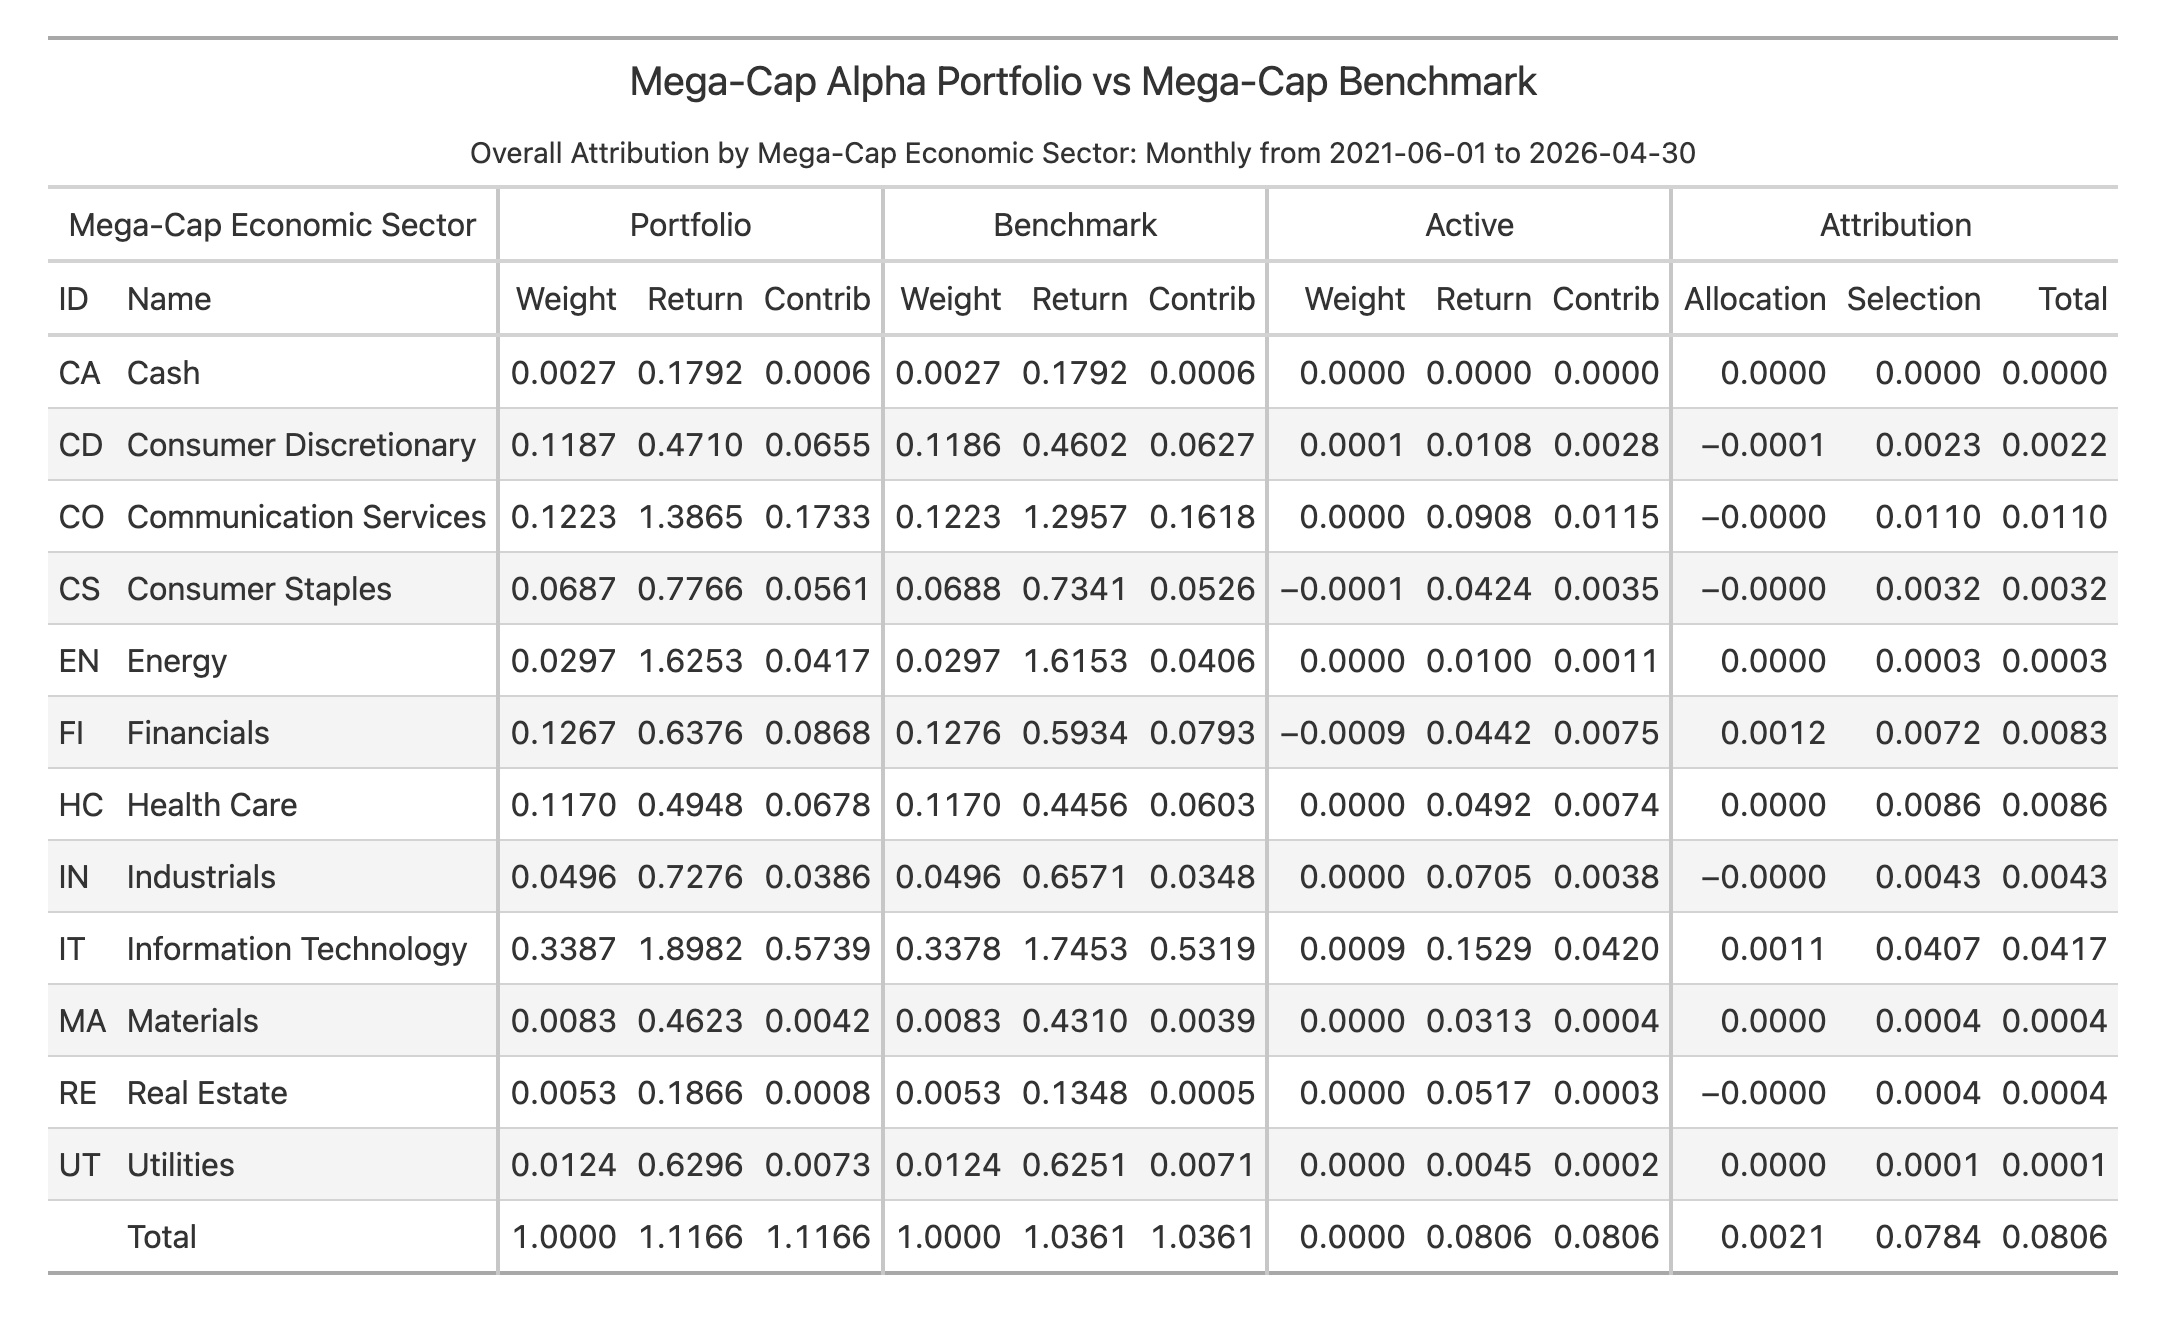
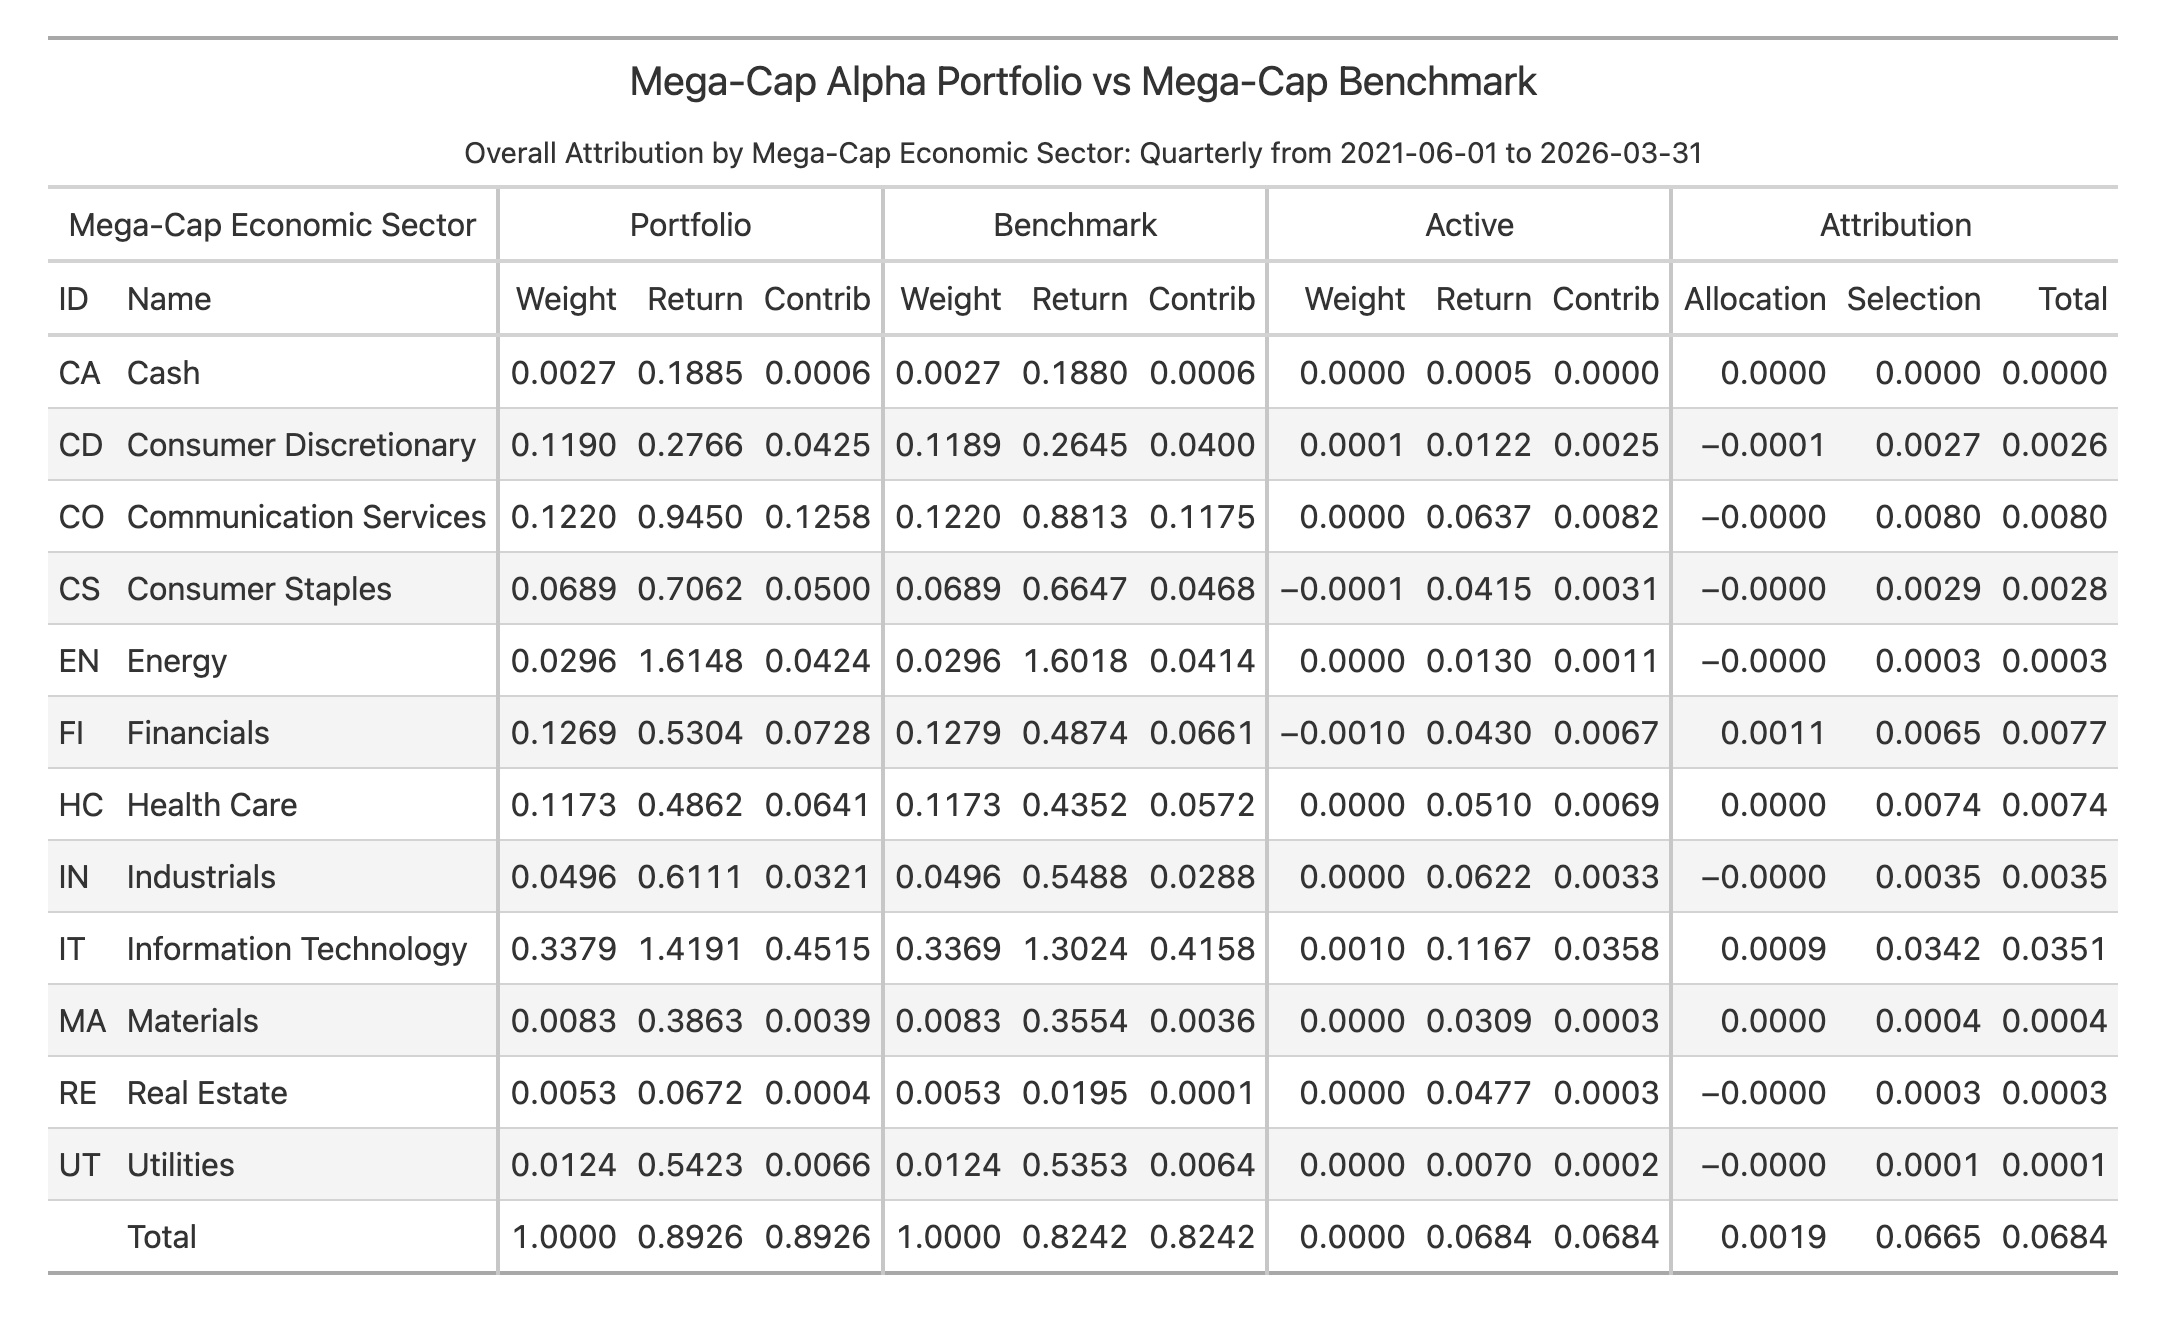
New analytics demo data.

diff --git a/scripts/render_readme_images.py b/scripts/render_readme_images.py
@@ -96,7 +96,7 @@ def _analytics_outputs() -> tuple[Analytics, Attribution]:
         demo_data.performance_data_source("Mega-Cap Benchmark.csv"),
         portfolio_classification_name="Mega-Cap Security",
         benchmark_classification_name="Mega-Cap Security",
-        frequency=Frequency.MONTHLY,
+        frequency=Frequency.QUARTERLY,
     )
     classification_name = "Mega-Cap Economic Sector"
     sector = analytics.get_attribution(

diff --git a/docs/analytics_demo_refresh.md b/docs/analytics_demo_refresh.md
@@ -1,0 +1,189 @@
+# Analytics Demo Refresh Guide
+
+This guide documents the refresh workflow for the core analytics demo data,
+README story, and README images. Use it when replacing the packaged Mega-Cap
+demo inputs with a newer or better historical dataset.
+
+## Current Demo Shape
+
+The user-facing analytics demo uses packaged CSV files under `ppar/demos/data/`:
+
+- `performance/Mega-Cap Alpha Portfolio.csv`
+- `performance/Mega-Cap Benchmark.csv`
+- `classifications/Mega-Cap Security.csv`
+- `classifications/Mega-Cap Economic Sector.csv`
+- `mappings/Mega-Cap Security--to--Mega-Cap Economic Sector.csv`
+
+The current files are generated from historical iShares S&P 100 ETF holdings as
+a public proxy for a U.S. mega-cap benchmark. The user-facing name is
+`Mega-Cap`; `OEF` is only source provenance. Cash and derivative rows are
+aggregated into `CASHBAL`, mapped to the `Cash` sector, and use BIL adjusted
+monthly returns as a cash-return proxy.
+
+The root README images and story are generated from these packaged files, not
+from the temporary data-generation workspace. The packaged data remains monthly,
+but the README images are rendered quarterly to keep date-heavy charts readable.
+
+## Refresh Workflow
+
+### 1. Generate Candidate Data
+
+Use the local generation workspace for exploratory downloads and calibration:
+
+```bash
+./.venv/bin/python _demo_output/analytics_data_generation/generate_oef_analytics_demo_data.py
+```
+
+Useful options:
+
+```bash
+./.venv/bin/python _demo_output/analytics_data_generation/generate_oef_analytics_demo_data.py \
+  --years 5 \
+  --alpha-tilt 0.8
+```
+
+Notes:
+
+- The generator is intentionally outside packaged code while the data source is
+  still a refresh/provenance tool rather than a public API.
+- It may require network access, `requests`, and local `yfinance`.
+- It writes generated files under
+  `_demo_output/analytics_data_generation/generated_oef_files/`.
+- Keep monthly continuity non-negotiable. If a market holiday falls on month
+  end, use a nearby available business-day holdings snapshot and document it.
+- Do not promote equal-weight benchmark data. The benchmark should remain
+  holdings-weighted/cap-weight-like.
+
+### 2. Review Candidate Data
+
+Before promotion, inspect at least:
+
+- Date coverage and monthly continuity.
+- Holdings count and any dropped/renamed securities.
+- Cash weight average and maximum.
+- Sector weights for believability.
+- Benchmark cumulative return versus a broad published proxy for the same
+  period.
+- Alpha portfolio cumulative return, active return, and risk statistics.
+- Whether the story is believable without looking engineered.
+
+Run or update the candidate validation helper if it still exists:
+
+```bash
+./.venv/bin/python _demo_output/analytics_data_generation/validate_generated_analytics_data.py
+```
+
+### 3. Promote Packaged CSVs
+
+Once accepted, copy the generated files into `ppar/demos/data/` using the
+stable user-facing `Mega-Cap` names:
+
+```text
+generated_oef_files/performance/Generated OEF Alpha Portfolio.csv
+  -> ppar/demos/data/performance/Mega-Cap Alpha Portfolio.csv
+
+generated_oef_files/performance/Generated OEF Benchmark.csv
+  -> ppar/demos/data/performance/Mega-Cap Benchmark.csv
+
+generated_oef_files/classifications/Generated OEF Security.csv
+  -> ppar/demos/data/classifications/Mega-Cap Security.csv
+
+generated_oef_files/classifications/Generated OEF Economic Sector.csv
+  -> ppar/demos/data/classifications/Mega-Cap Economic Sector.csv
+
+generated_oef_files/mappings/Generated OEF Security--to--Generated OEF Economic Sector.csv
+  -> ppar/demos/data/mappings/Mega-Cap Security--to--Mega-Cap Economic Sector.csv
+```
+
+After promotion, update:
+
+- `ppar/demos/data/README.md`
+- `tests/test_mega_cap_demo_data_contract.py`
+- any expected coverage dates, cash notes, and story metrics.
+
+### 4. Verify Packaged Data
+
+Run the demo-data contract and package metadata tests:
+
+```bash
+./.venv/bin/python -m pytest \
+  tests/test_mega_cap_demo_data_contract.py \
+  tests/test_package_metadata.py
+```
+
+Then run the analytics demo:
+
+```bash
+printf 'm\n' | ./.venv/bin/python -m ppar.demos.analytics_demo
+```
+
+Review output under `_demo_output/analytics/`.
+
+### 5. Update README Story
+
+Use the packaged data and the same frequency used by
+`scripts/render_readme_images.py`, not the generator summary alone, to compute
+README numbers. The README currently renders quarterly images from monthly
+packaged inputs. The useful values are:
+
+- Portfolio cumulative return.
+- Benchmark cumulative return.
+- Active return.
+- Total allocation effect.
+- Total selection effect.
+- Largest sector total effect.
+- Annualized Sharpe ratio for portfolio and benchmark.
+- Annualized Sortino ratio for portfolio and benchmark.
+
+The README story should be concise and believable. Prefer phrasing like
+"public proxy" or "realistic, inspectable example" instead of implying exact
+index replication.
+
+### 6. Regenerate README Images
+
+The README images are generated from packaged demo files:
+
+```bash
+./.venv/bin/python scripts/render_readme_images.py
+```
+
+The script regenerates:
+
+- chart PNGs in `images/`
+- table screenshots as JPGs in `images/`
+
+Headless Chrome may require normal local-machine permissions. If the sandboxed
+runner cannot launch Chrome, rerun the same command with the tool approval used
+for GUI/headless-browser execution.
+
+Visually spot-check at least:
+
+- `images/OverallAttributionByEconomicSector.png`
+- `images/RiskStatistics.jpg`
+- one large table screenshot such as
+  `images/OverallAttributionBySecurity.jpg`
+
+### 7. Final Verification
+
+Run the full test suite:
+
+```bash
+./.venv/bin/python -m pytest
+```
+
+Before committing, check:
+
+- README story matches regenerated image titles and values.
+- `ppar-analytics-demo` uses the same packaged files.
+- `scripts/render_readme_images.py` uses the same packaged files.
+- `ppar/demos/data/README.md` documents source provenance and any date
+  substitutions.
+- No generated `_demo_output/` files are accidentally staged.
+
+## When To Promote The Generator
+
+The generator can remain in `_demo_output/analytics_data_generation/` while it
+is a local refresh aid. Consider moving it into `scripts/` only if we want a
+maintained, documented, reproducible data-refresh command. If promoted, avoid
+adding new package dependencies solely for data refresh unless that is an
+explicit product decision.

diff --git a/docs/repository_guide.md b/docs/repository_guide.md
@@ -9,6 +9,7 @@ many disconnected entry points.
 | Need | Start With | Why |
 | --- | --- | --- |
 | Package overview | [`README.md`](../README.md) | Top-level project description, installation, public demo commands, and common smoke tests. |
+| Analytics demo refresh | [`docs/analytics_demo_refresh.md`](analytics_demo_refresh.md) | How to regenerate Mega-Cap demo data, update the README story, and refresh README images. |
 | Performance comparison concepts | [`docs/performance_comparison_design.md`](performance_comparison_design.md) | Deep feature notes, YAML vocabulary, report bundle structure, and implementation status. |
 | Axys export shape | [`docs/axys_common_core_export.md`](axys_common_core_export.md) | Starter Axys export template and field-reference notes. |
 | Packaged Axys demos | [`ppar/demos/data/axys/README.md`](../ppar/demos/data/axys/README.md) | Four XLSX workbook demos, four validation fixtures, exact commands, and expected outputs. |
@@ -37,6 +38,7 @@ many disconnected entry points.
 | File | Audience | Contents |
 | --- | --- | --- |
 | [`README.md`](../README.md) | New users and maintainers | Package overview, installation, bundled demo commands, performance-comparison smoke tests, and project checks. |
+| [`docs/analytics_demo_refresh.md`](analytics_demo_refresh.md) | Maintainers | Analytics demo data-generation, story, and README image refresh workflow. |
 | [`ppar/demos/data/axys/README.md`](../ppar/demos/data/axys/README.md) | Demo reviewers | Packaged Axys scenario matrix, XLSX workbook commands, data/YAML descriptions, and expected workbook outputs. |
 | [`tests/data/axys/README.md`](../tests/data/axys/README.md) | Test authors | Test-only comparison YAML files and their packaged snapshot references. |
 | Snapshot README files under `ppar/demos/data/axys/*/README.md` | Fixture readers | Small notes about individual packaged snapshot directories. |
@@ -50,11 +52,11 @@ can be run from a source checkout with `./.venv/bin/python -m <module>`.
 | Command Module Or Script | Purpose | Common Use |
 | --- | --- | --- |
 | `scripts/check_project.py` | Runs project checks. | `./.venv/bin/python scripts/check_project.py --quick` |
+| `scripts/render_readme_images.py` | Regenerates README images from packaged Mega-Cap analytics demo files. | Documentation image maintenance after analytics demo refresh. |
 | `ppar.performance_comparison.cli.report_bundle` | Writes HTML, CSV, manifest, and optional XLSX workbook artifacts for a comparison YAML. | Generate review bundles and workbooks. |
 | `ppar.performance_comparison.cli.validate_bundle` | Validates a generated report bundle. | Check that expected artifacts and manifest references exist. |
 | `ppar.performance_comparison.cli.validate_demo_matrix` | Validates packaged Axys demo scenarios. | Prove demo fixtures still cover documented scenarios. |
 | `ppar.performance_comparison.cli.validate_config` | Validates a comparison YAML file. | Catch YAML setup issues before generating reports. |
-| `scripts/render_readme_images.py` | Regenerates README image artifacts. | Documentation image maintenance. |
 
 ## Installed Commands
 

diff --git a/README.md b/README.md
@@ -28,20 +28,20 @@ portfolio-performance-analytics is a python package (https://pypi.org/project/pp
 ## Features
 
 The sample outputs below portray a Mega-Cap alpha portfolio measured against a
-Mega-Cap benchmark. The rendered reports show monthly attribution and risk from
-June 2021 through April 2026, using packaged demo data derived from historical
+Mega-Cap benchmark. The rendered reports show quarterly attribution and risk from
+June 2021 through March 2026, using packaged demo data derived from historical
 iShares S&P 100 ETF holdings, with a small cash balance included as `CASHBAL`.
 
-Over the full period, the portfolio returned 111.7% versus 103.6% for the
-benchmark, producing an active return of about 806 bps. In the total line of
+Over the full period, the portfolio returned 89.3% versus 82.4% for the
+benchmark, producing an active return of about 684 bps. In the total line of
 the Economic Sector Attribution reports, that active return is explained mostly
-by security selection: about 21 bps from sector allocation and about 784 bps
+by security selection: about 19 bps from sector allocation and about 665 bps
 from security selection. Information Technology was the largest source of active
-performance, contributing about 417 bps of total attribution effect.
+performance, contributing about 351 bps of total attribution effect.
 
 The Risk Statistics report shows a similar but modest risk-adjusted advantage:
-annualized Sharpe ratio of 1.07 for the portfolio versus 1.02 for the benchmark,
-and annualized Sortino ratio of 1.82 versus 1.75. The point of the demo is not a
+annualized Sharpe ratio of 0.70 for the portfolio versus 0.67 for the benchmark,
+and annualized Sortino ratio of 1.82 versus 1.74. The point of the demo is not a
 perfect index-replication study; it is a realistic, inspectable example of how
 holdings-based attribution and ex-post risk statistics explain a believable
 portfolio/benchmark result.

diff --git a/ppar/demos/data/README.md b/ppar/demos/data/README.md
@@ -24,3 +24,16 @@ were closed on March 29, 2024 for Good Friday.
 Cash and derivative rows from the source holdings are aggregated into
 `CASHBAL`, mapped to the `Cash` sector. `CASHBAL` uses BIL adjusted monthly
 returns as its cash-return proxy.
+
+## Refresh Notes
+
+The packaged CSVs are the source of truth for `ppar-analytics-demo`,
+`README.md`, and the README images under `images/`. Temporary generation files
+under `_demo_output/analytics_data_generation/` are provenance and refresh aids,
+not packaged demo inputs.
+
+When regenerating this dataset, follow
+[`docs/analytics_demo_refresh.md`](../../../docs/analytics_demo_refresh.md).
+That guide covers candidate data generation, validation, promotion into this
+directory, README story updates, image regeneration with
+`scripts/render_readme_images.py`, and final test verification.
